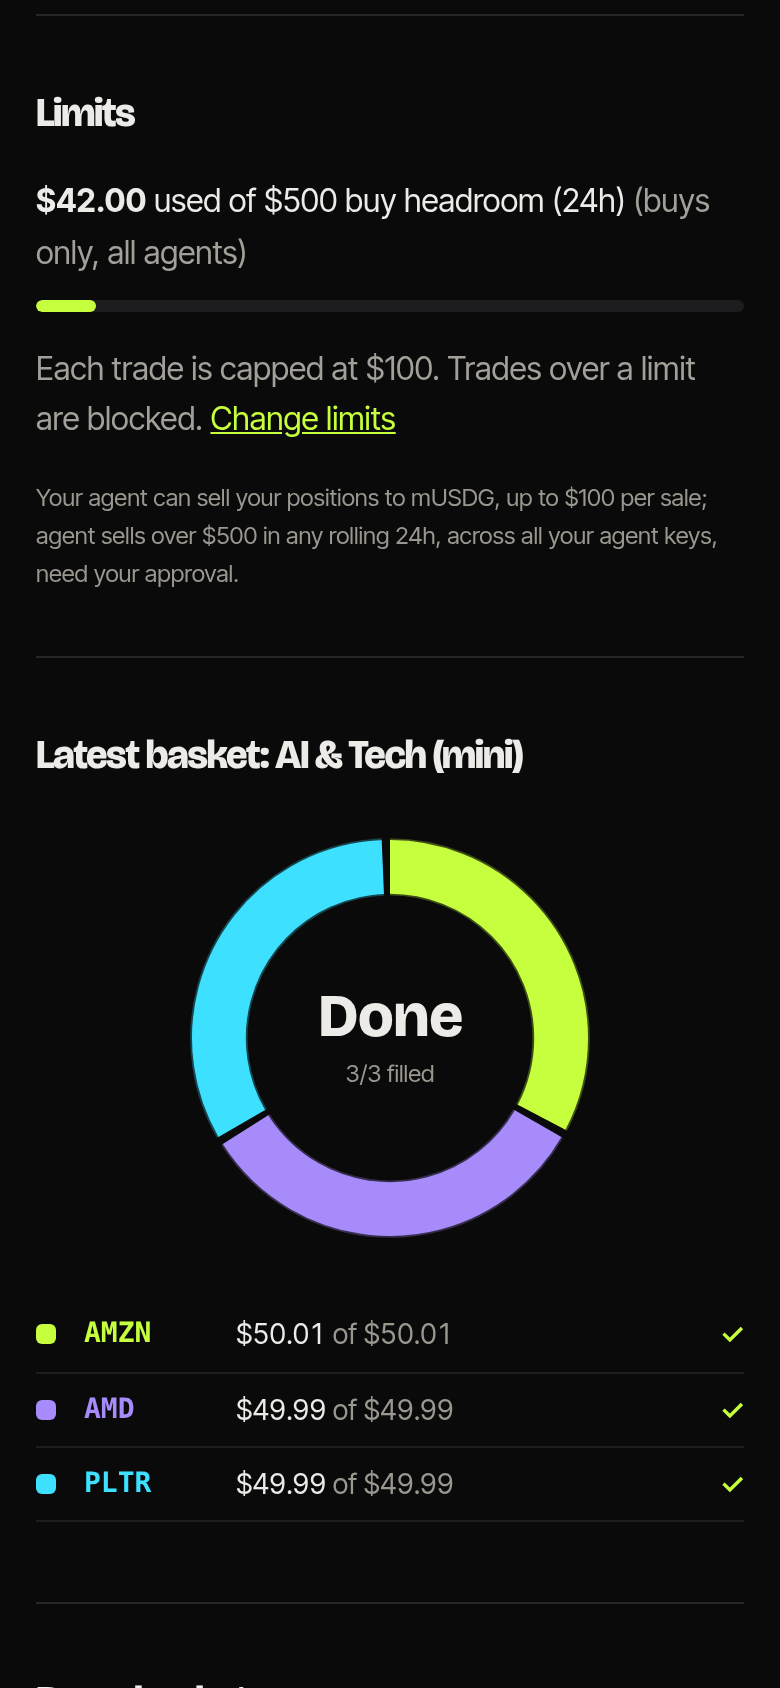
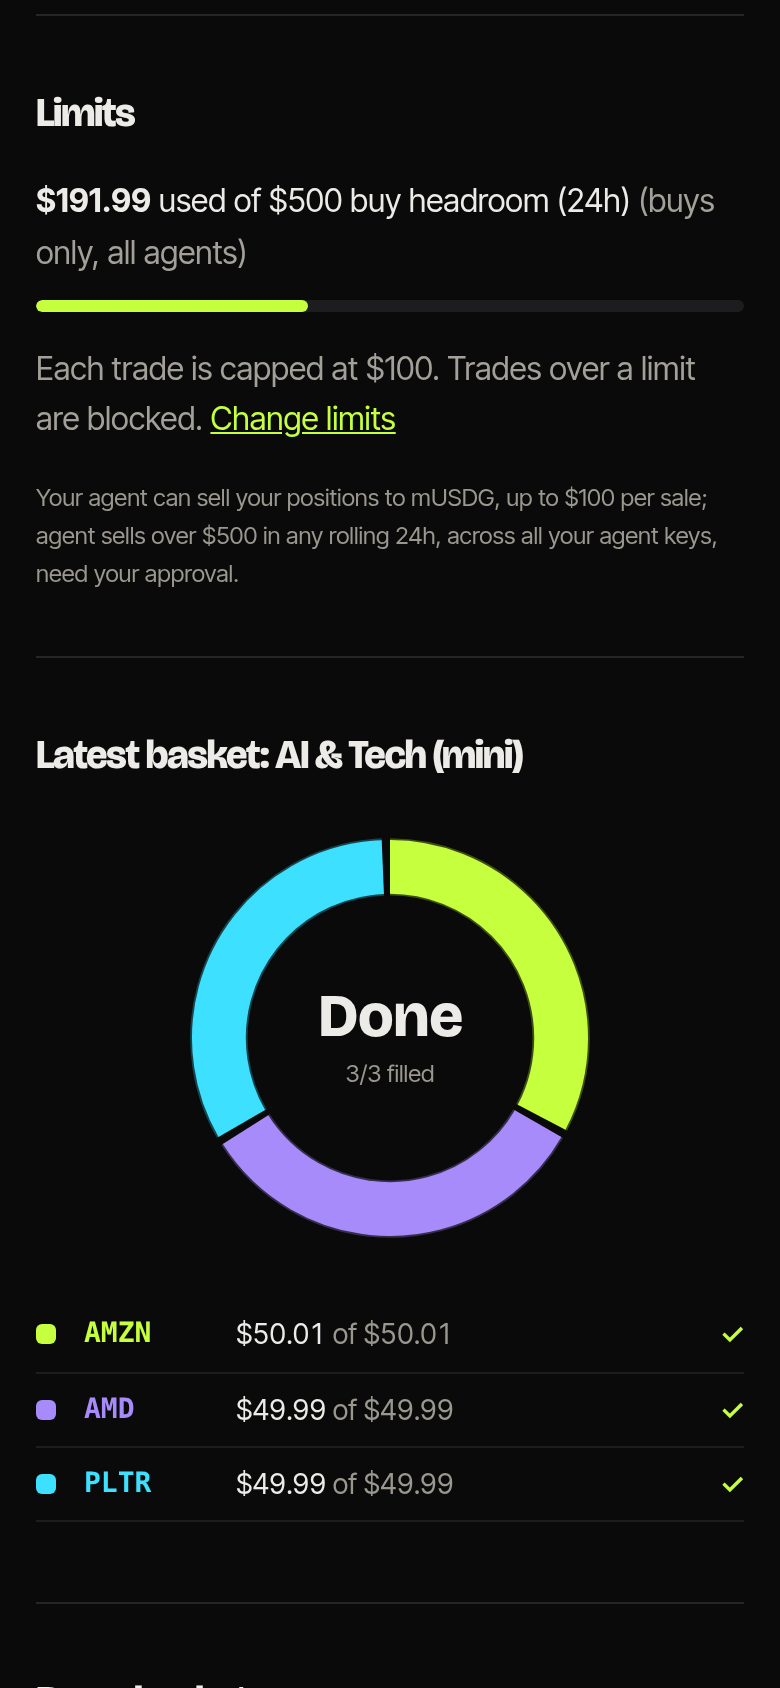
x-graphics: capture-only Limits meter override so x-home used amount matches the basket shown; re-render showcases + contact sheet

Changed region(s): [[0.0615, 0.0924, 0.9231, 0.154], [0.1231, 0.154, 0.4, 0.1848]]

diff --git a/x-graphics/src/shots.js b/x-graphics/src/shots.js
@@ -20,6 +20,8 @@ const clean=()=>{const tw=document.createTreeWalker(document.body,NodeFilter.SHO
  await pg.evaluate(()=>location.hash="#/dashboard/overview");await w(2500);
  await pg.evaluate(()=>{const a=document.getElementById("bkAmt");a.value=250;a.dispatchEvent(new Event("input",{bubbles:true}))});await w(200);
  await tap("#bkGo");await w(6500);await pg.evaluate(()=>scrollTo(0,0));await shot("x-basket.png");await w(6000);
- await dock();await w(2500);await pg.screenshot({path:"/tmp/homefull.png",fullPage:true});await pg.evaluate(()=>{const h=[...document.querySelectorAll("h2,h3")].find(e=>e.textContent.trim()=="Limits");scrollTo(0,h.getBoundingClientRect().top+scrollY-40)});await w(500);await shot("x-home.png");
+ await dock();await w(2500);await pg.screenshot({path:"/tmp/homefull.png",fullPage:true});await pg.evaluate(()=>{const h=[...document.querySelectorAll("h2,h3")].find(e=>e.textContent.trim()=="Limits");scrollTo(0,h.getBoundingClientRect().top+scrollY-40)});await w(500);await pg.evaluate(()=>{const m=document.querySelector(".dx-meter");if(!m)return;const b=m.querySelector("b");const base=+b.textContent.replace(/[^\d.]/g,"");
+  const legs=[...document.body.innerText.matchAll(/\$([\d.]+) of \$[\d.]+/g)].reduce((a,x)=>a+ +x[1],0);const u=base+legs;b.textContent="$"+u.toFixed(2);
+  m.querySelectorAll("[style*=width]").forEach(e=>e.style.width=(u/500*100).toFixed(1)+"%");console.log("WARN meter "+base+" + basket "+legs.toFixed(2)+" = "+u.toFixed(2))});await shot("x-home.png");
  await pg.evaluate(()=>document.querySelector("[data-ap]")?.scrollIntoView({block:"center"}));await w(600);await shot("x-approve.png");
  await b.close()})();
